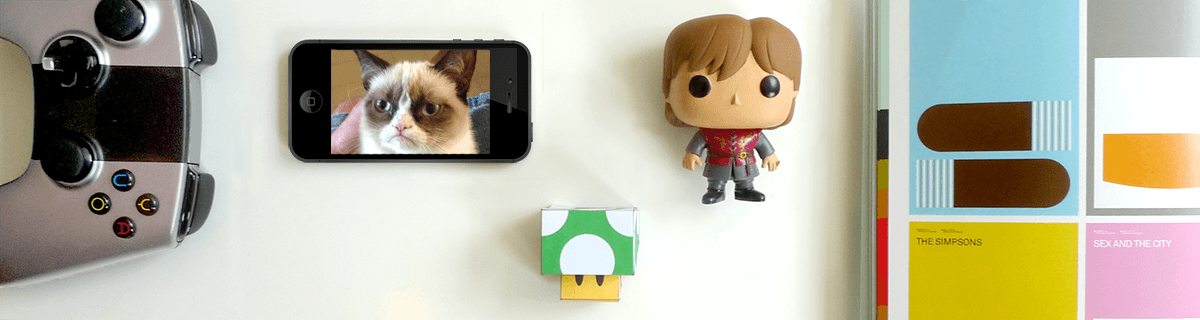
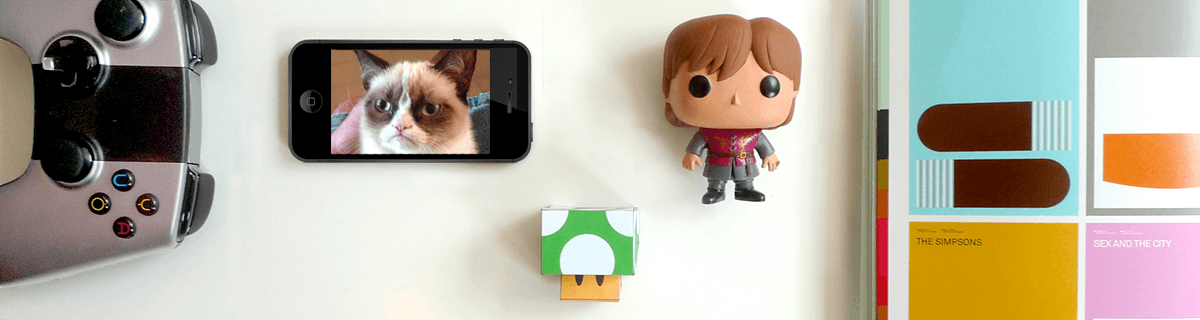
Beta Launch blog post
Also slight edits to images in last weeks friday links

Changed region(s): [[0.7092, 0.5938, 0.925, 1.0], [0.8942, 0.4062, 0.9867, 0.5938], [0.4625, 0.8438, 0.5242, 0.9375]]

diff --git a/source/blog/2014-07-17-beta.md b/source/blog/2014-07-17-beta.md
@@ -1,0 +1,25 @@
+---
+title: "to [beta]"
+category: announcement
+tags: to icon, beta, release, icons
+author: carol
+---
+
+We’re excited to announce that to [icon] is now in beta! Our Kickstarter backers now have access to preview and test the site in progressREADMORE as we continue to refine the site design, fix some bugs, and of course, craft more icons for our ever-growing database. But for those who missed the Kickstarter, we’ve got a teaser here for those curious and waiting.
+
+![Blueprint Icons](2014-07-17-beta/icons1.png)
+
+All of our icons have been quadruple checked, twice over. Each icon is pixel-fitted for sharp rendering even in 32px squares. Even the sharpest vectors end up as pixels someday, and ours will be prepared for their moment.
+
+![Homepage Video Demo](2014-07-17-beta/videodemo1.gif)
+
+![Series Screenshot](2014-07-17-beta/screenshot1.png)
+
+We aimed for launching with 6 complete sets, but thanks to our backers, we're able to launch with 9 full sets of 100 icons each. We've got flat icons, outlined icons, isometric icons, colored icons, you name it. More in development too.
+
+![Icon and ipad video Demo](2014-07-17-beta/videodemo2.gif)
+Our pixel preview feature allows you to check our work and determine if the icon fits your project. You can also view the icons in three sizes before downloading the svg.
+
+![Pixel Preview Screenshot](2014-07-17-beta/screenshot2.png)
+
+Stay tuned for to [icon]'s full launch, coming soon!
